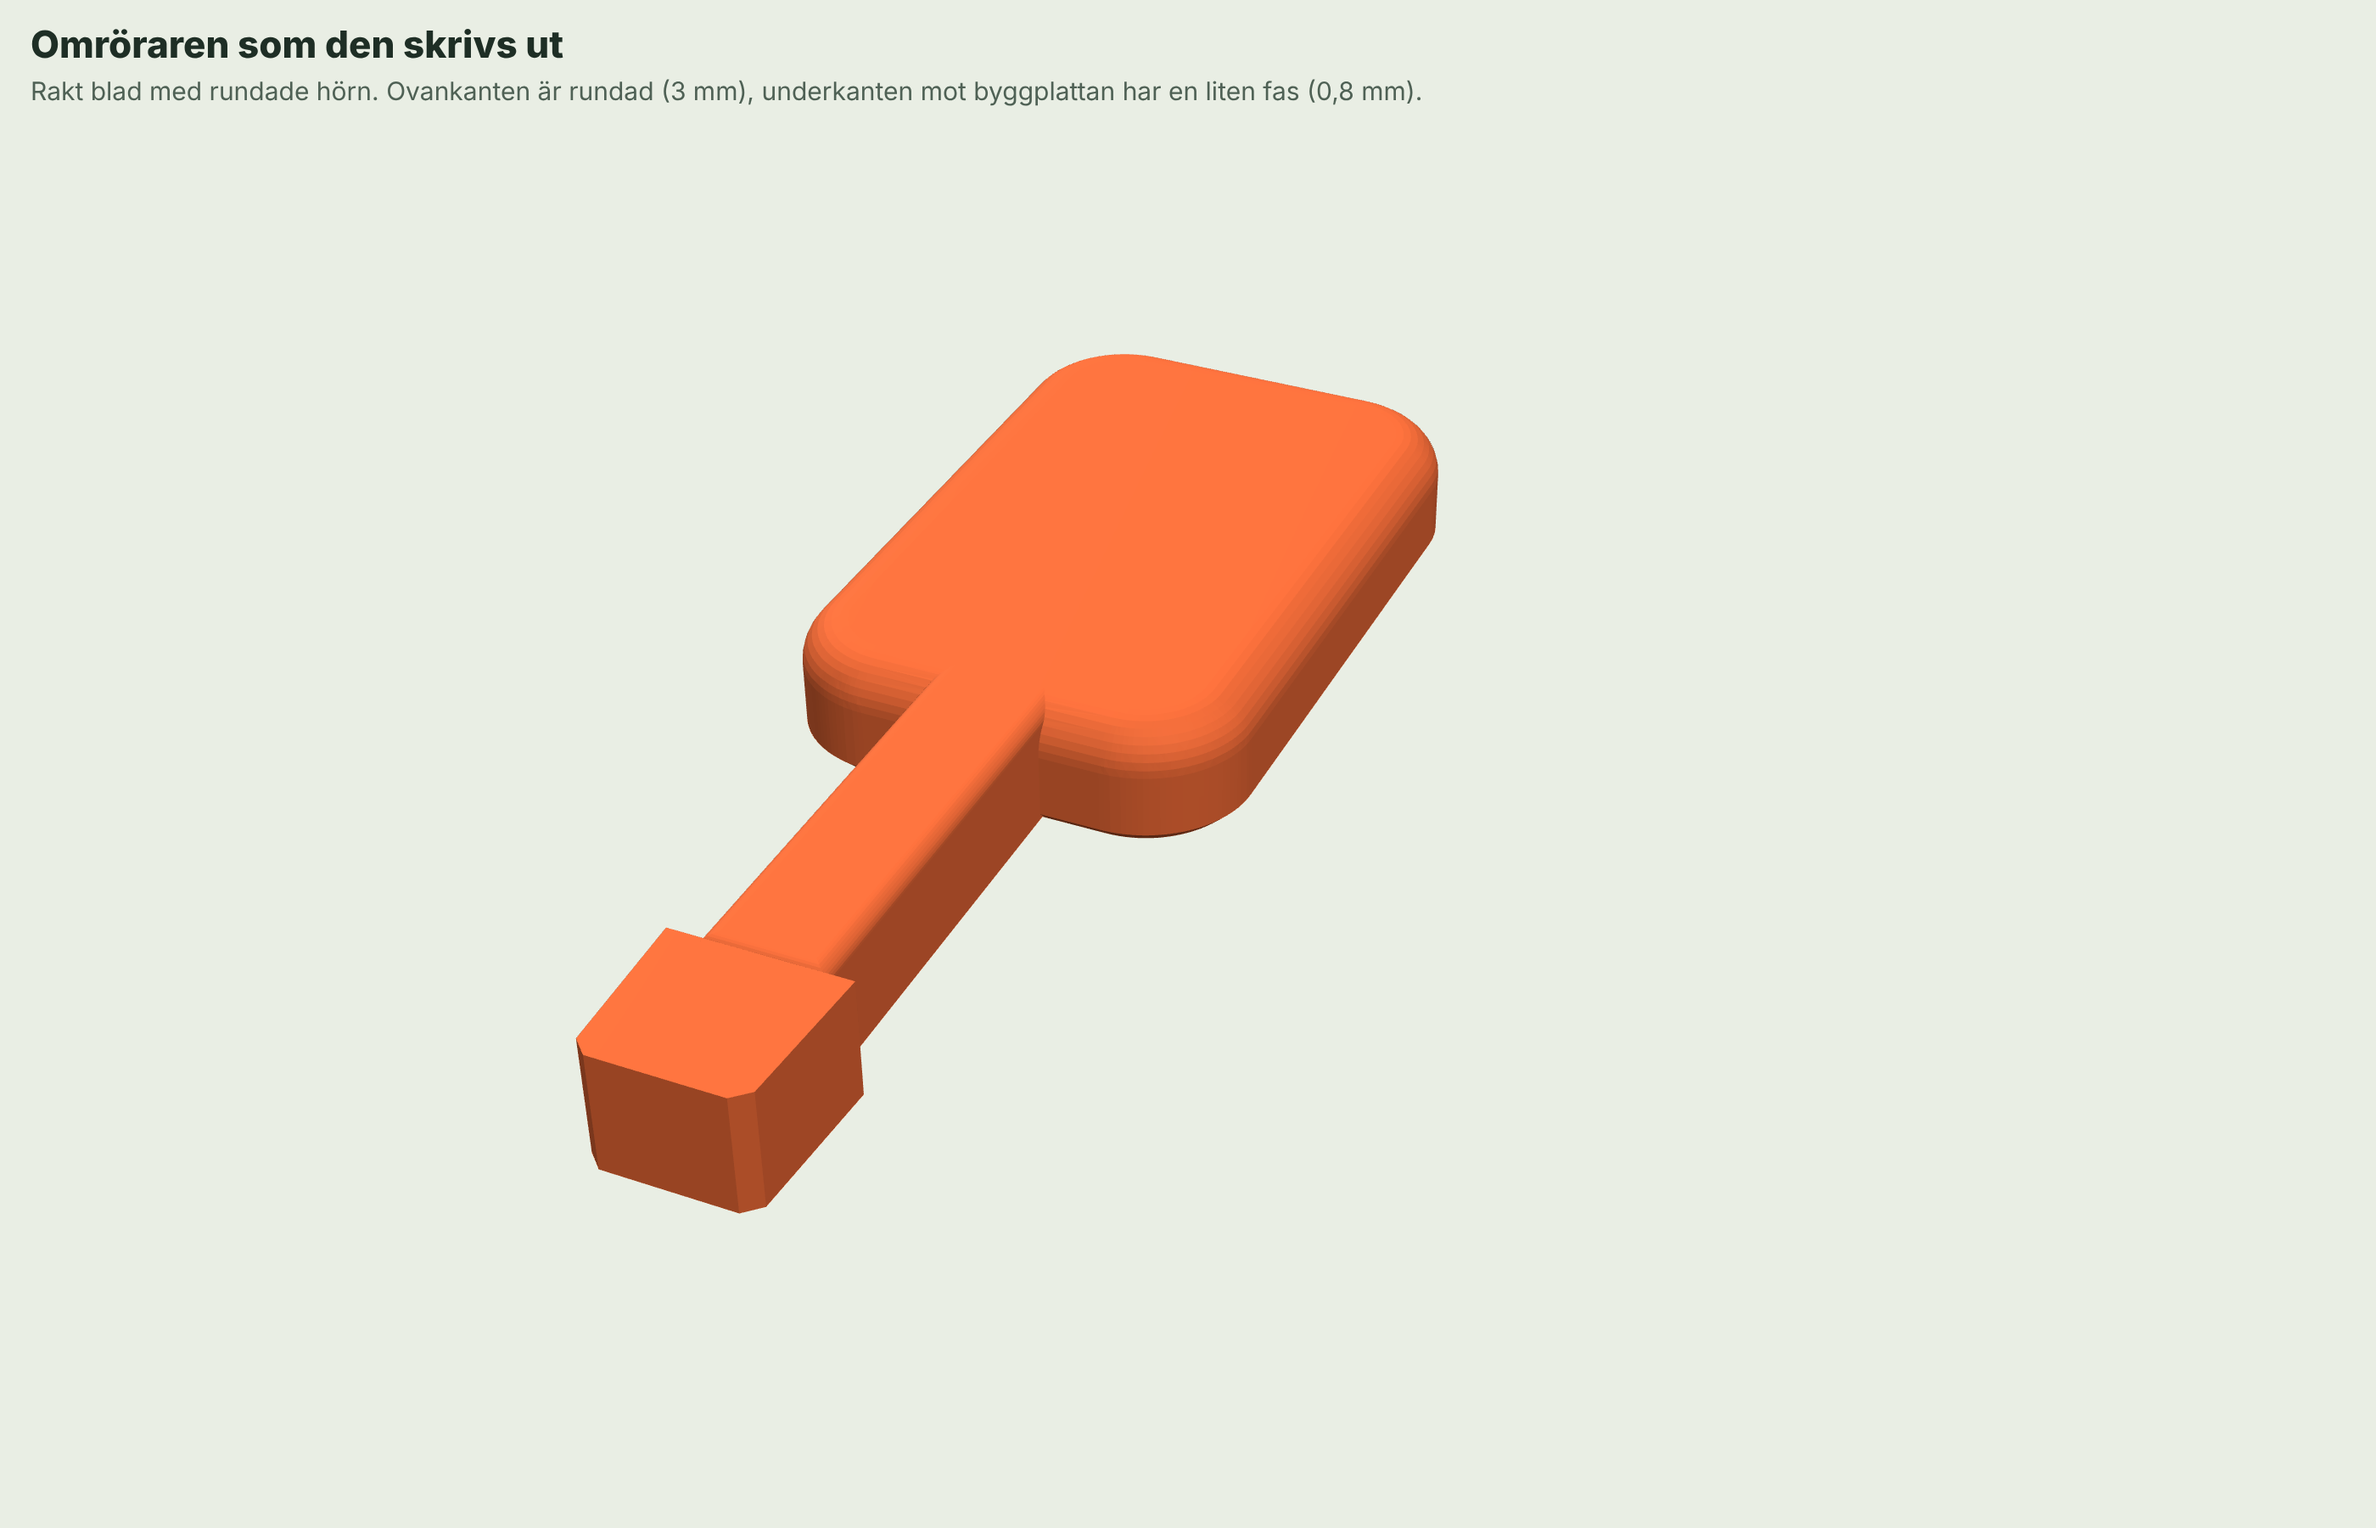
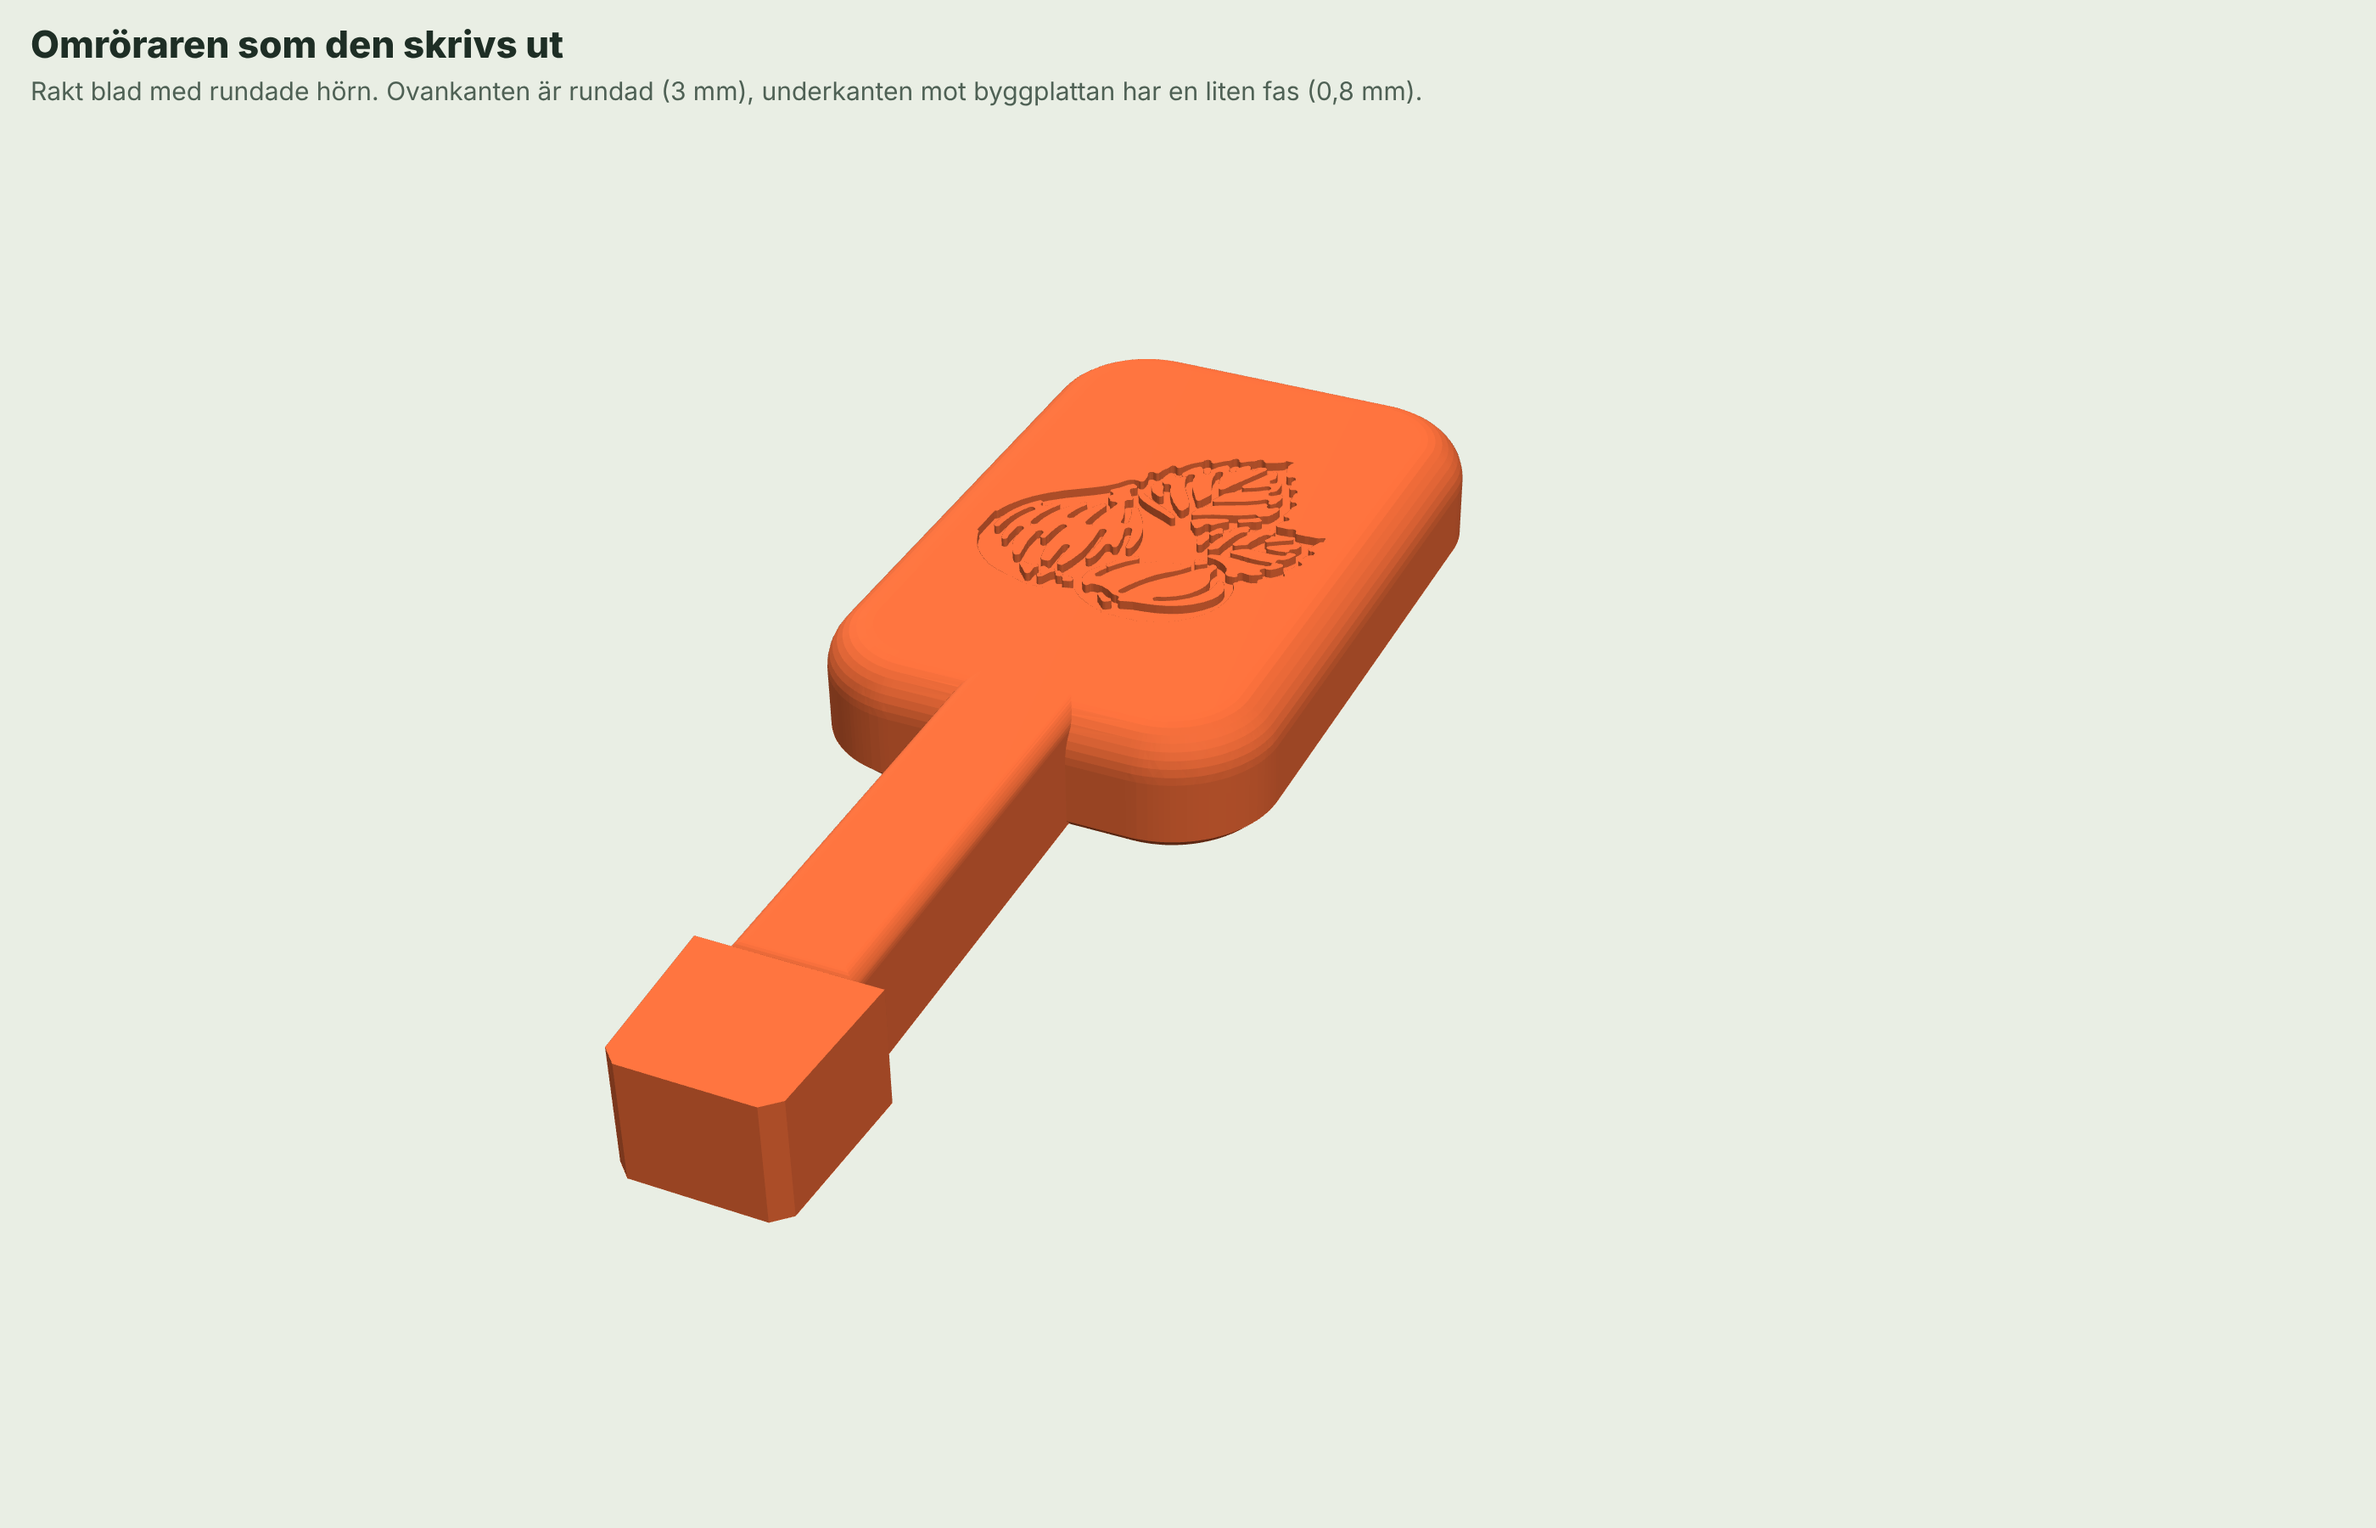
Förhandsbilder: plockskivan med större hornurtag, nya rännan och nya elektroniklådan
Bilderna 90–98, 101–103 och 105 renderade om från de aktuella delarna.

Claude-Session: https://claude.ai/code/session_018xksXR9gb4yYHdCGmvWeKU

Changed region(s): [[0.2796, 0.2178, 0.6214, 0.8089], [0.2175, 0.6222, 0.2796, 0.7778]]

diff --git a/cad/plockskiva/sim/render5b.py b/cad/plockskiva/sim/render5b.py
@@ -1,0 +1,33 @@
+import json, pickle, os, numpy as np, trimesh
+import plock as K
+A={k:trimesh.Trimesh(v,f,process=False) for k,(v,f) in pickle.load(open('../A_parts.pkl','rb')).items()}
+P={n:trimesh.load('../ranna/ut/asm/%s.stl'%n) for n in ('plockskiva','doserstativ','skivkapa','omrorare','notforrad','servo_mg996r')}
+def soup(m): return [round(float(v), 2) for v in m.vertices[m.faces].ravel()]
+def moved(m, d): m=m.copy(); m.apply_translation(d); return m
+def bx(x0,x1,y0,y1,z0,z1):
+    m=trimesh.creation.box(extents=[x1-x0,y1-y0,z1-z0]); m.apply_translation([(x0+x1)/2,(y0+y1)/2,(z0+z1)/2]); return m
+G={n:soup(m) for n,m in P.items()}
+for n in ('skarmklamma','kamerafaste','elektroniklada','ellock','kropp','kropp_sockel'): G[n]=soup(A[n])
+EL='../el/ut/asm/'                                                               # nya elektroniklådan i stället för den gamla
+G['elektroniklada']=soup(trimesh.util.concatenate([trimesh.load(EL+'elbakstycke.stl'), trimesh.load(EL+'komponentplatta.stl')])); G['ellock']=soup(trimesh.load(EL+'elkapa.stl'))
+G['kontakter']=soup(trimesh.util.concatenate([bx(-25.4,25.4,21.7,35.7,108+s_*8.89-1.6,108+s_*8.89+1.6) for s_ in (1,-1)]))
+for n_,f_ in (('ficka','19_skarmficka'),('regel','19b_skarmficka_regel'),('kort','skarmkort_ungefar')): G[n_]=soup(trimesh.load('../ficka/ut/%s.stl'%f_))
+E=K.EW
+G['x_stativ']=soup(P['doserstativ']); G['x_servo']=soup(moved(P['servo_mg996r'], -E*45)); G['x_skiva']=soup(moved(P['plockskiva'], E*38))
+G['x_kapa']=soup(moved(P['skivkapa'], E*38+np.array([0,-38,0]))); G['x_forrad']=soup(moved(P['notforrad'], np.array([20,0,95]))); G['x_omr']=soup(moved(P['omrorare'], E*150))
+if os.path.exists('snap_kap85.npy'):
+    S=np.load('snap_kap85.npy',allow_pickle=True).item(); ns=[]
+    def qmat(q):
+        w,x,y,z=q; return np.array([[1-2*(y*y+z*z),2*(x*y-z*w),2*(x*z+y*w)],[2*(x*y+z*w),1-2*(x*x+z*z),2*(y*z-x*w)],[2*(x*z-y*w),2*(y*z+x*w),1-2*(x*x+y*y)]])
+    for p,q,s in zip(S['pos'],S['quat'],S['size']):
+        if p[2] > K.ZT - 2 or p[2] < 20: continue
+        e=trimesh.creation.icosphere(subdivisions=2,radius=1.0); e.apply_scale(s); M=np.eye(4); M[:3,:3]=qmat(q); M[:3,3]=p; e.apply_transform(M); ns.append(e)
+    G['nuts']=soup(trimesh.util.concatenate(ns)); print('nötter i bilden', len(ns))
+# utskriftsläge
+x=0
+for f,k in (('14_notforrad','u_forrad'),('10_doserstativ','u_stativ'),('11_plockskiva','u_skiva'),('10b_skivkapa','u_kapa'),('11b_omrorare','u_omr')):
+    m=trimesh.load('../ranna/ut/%s.stl'%f); tr=[x - m.bounds[0][0], -m.bounds[:,1].mean(), 0]; m.apply_translation(tr); x = m.bounds[1][0] + 14; G[k]=soup(m)
+    if f=='11b_omrorare' and os.path.exists('../ranna/ut/11c_omrorare_motiv.stl'):
+        il=trimesh.load('../ranna/ut/11c_omrorare_motiv.stl'); il.apply_translation(tr); G['u_omr_motiv']=soup(il)
+G['bed']=soup(bx(-10, x, -70, 70, -1.0, 0.0))
+json.dump(G, open('../render/geo_v5.json','w')); print('klar', {k: len(v)//9 for k,v in G.items()}, 'bredd', round(x))
